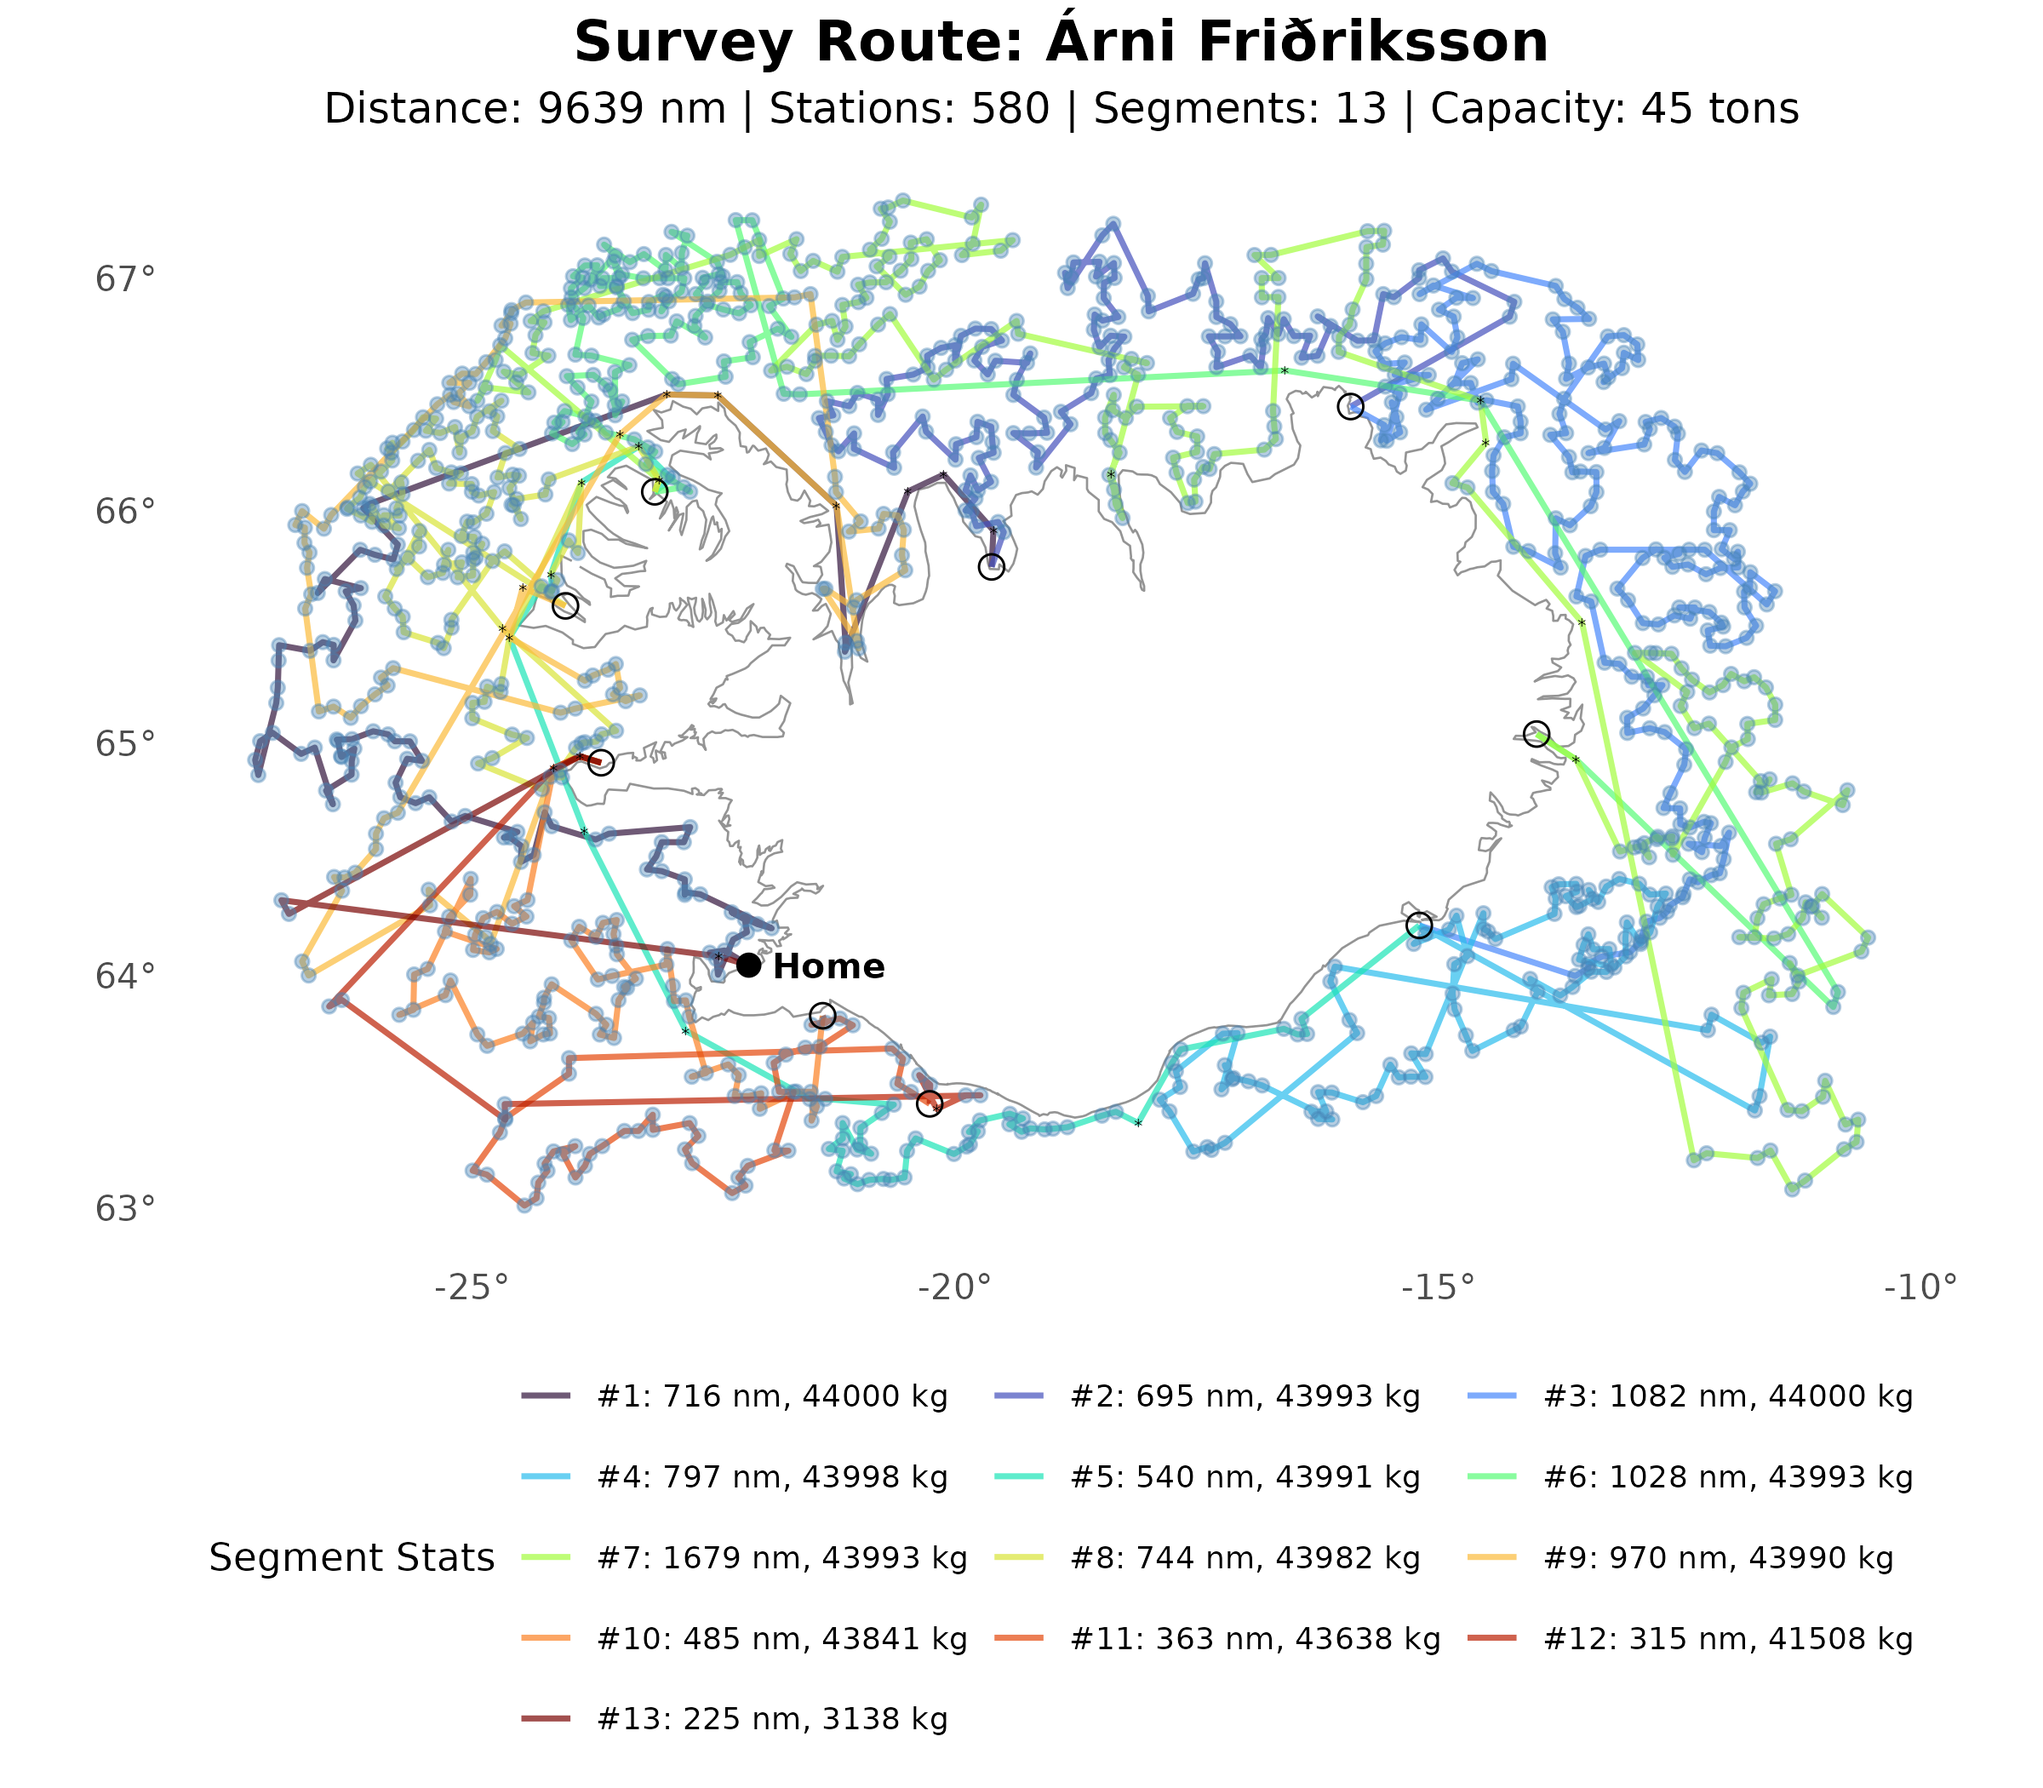
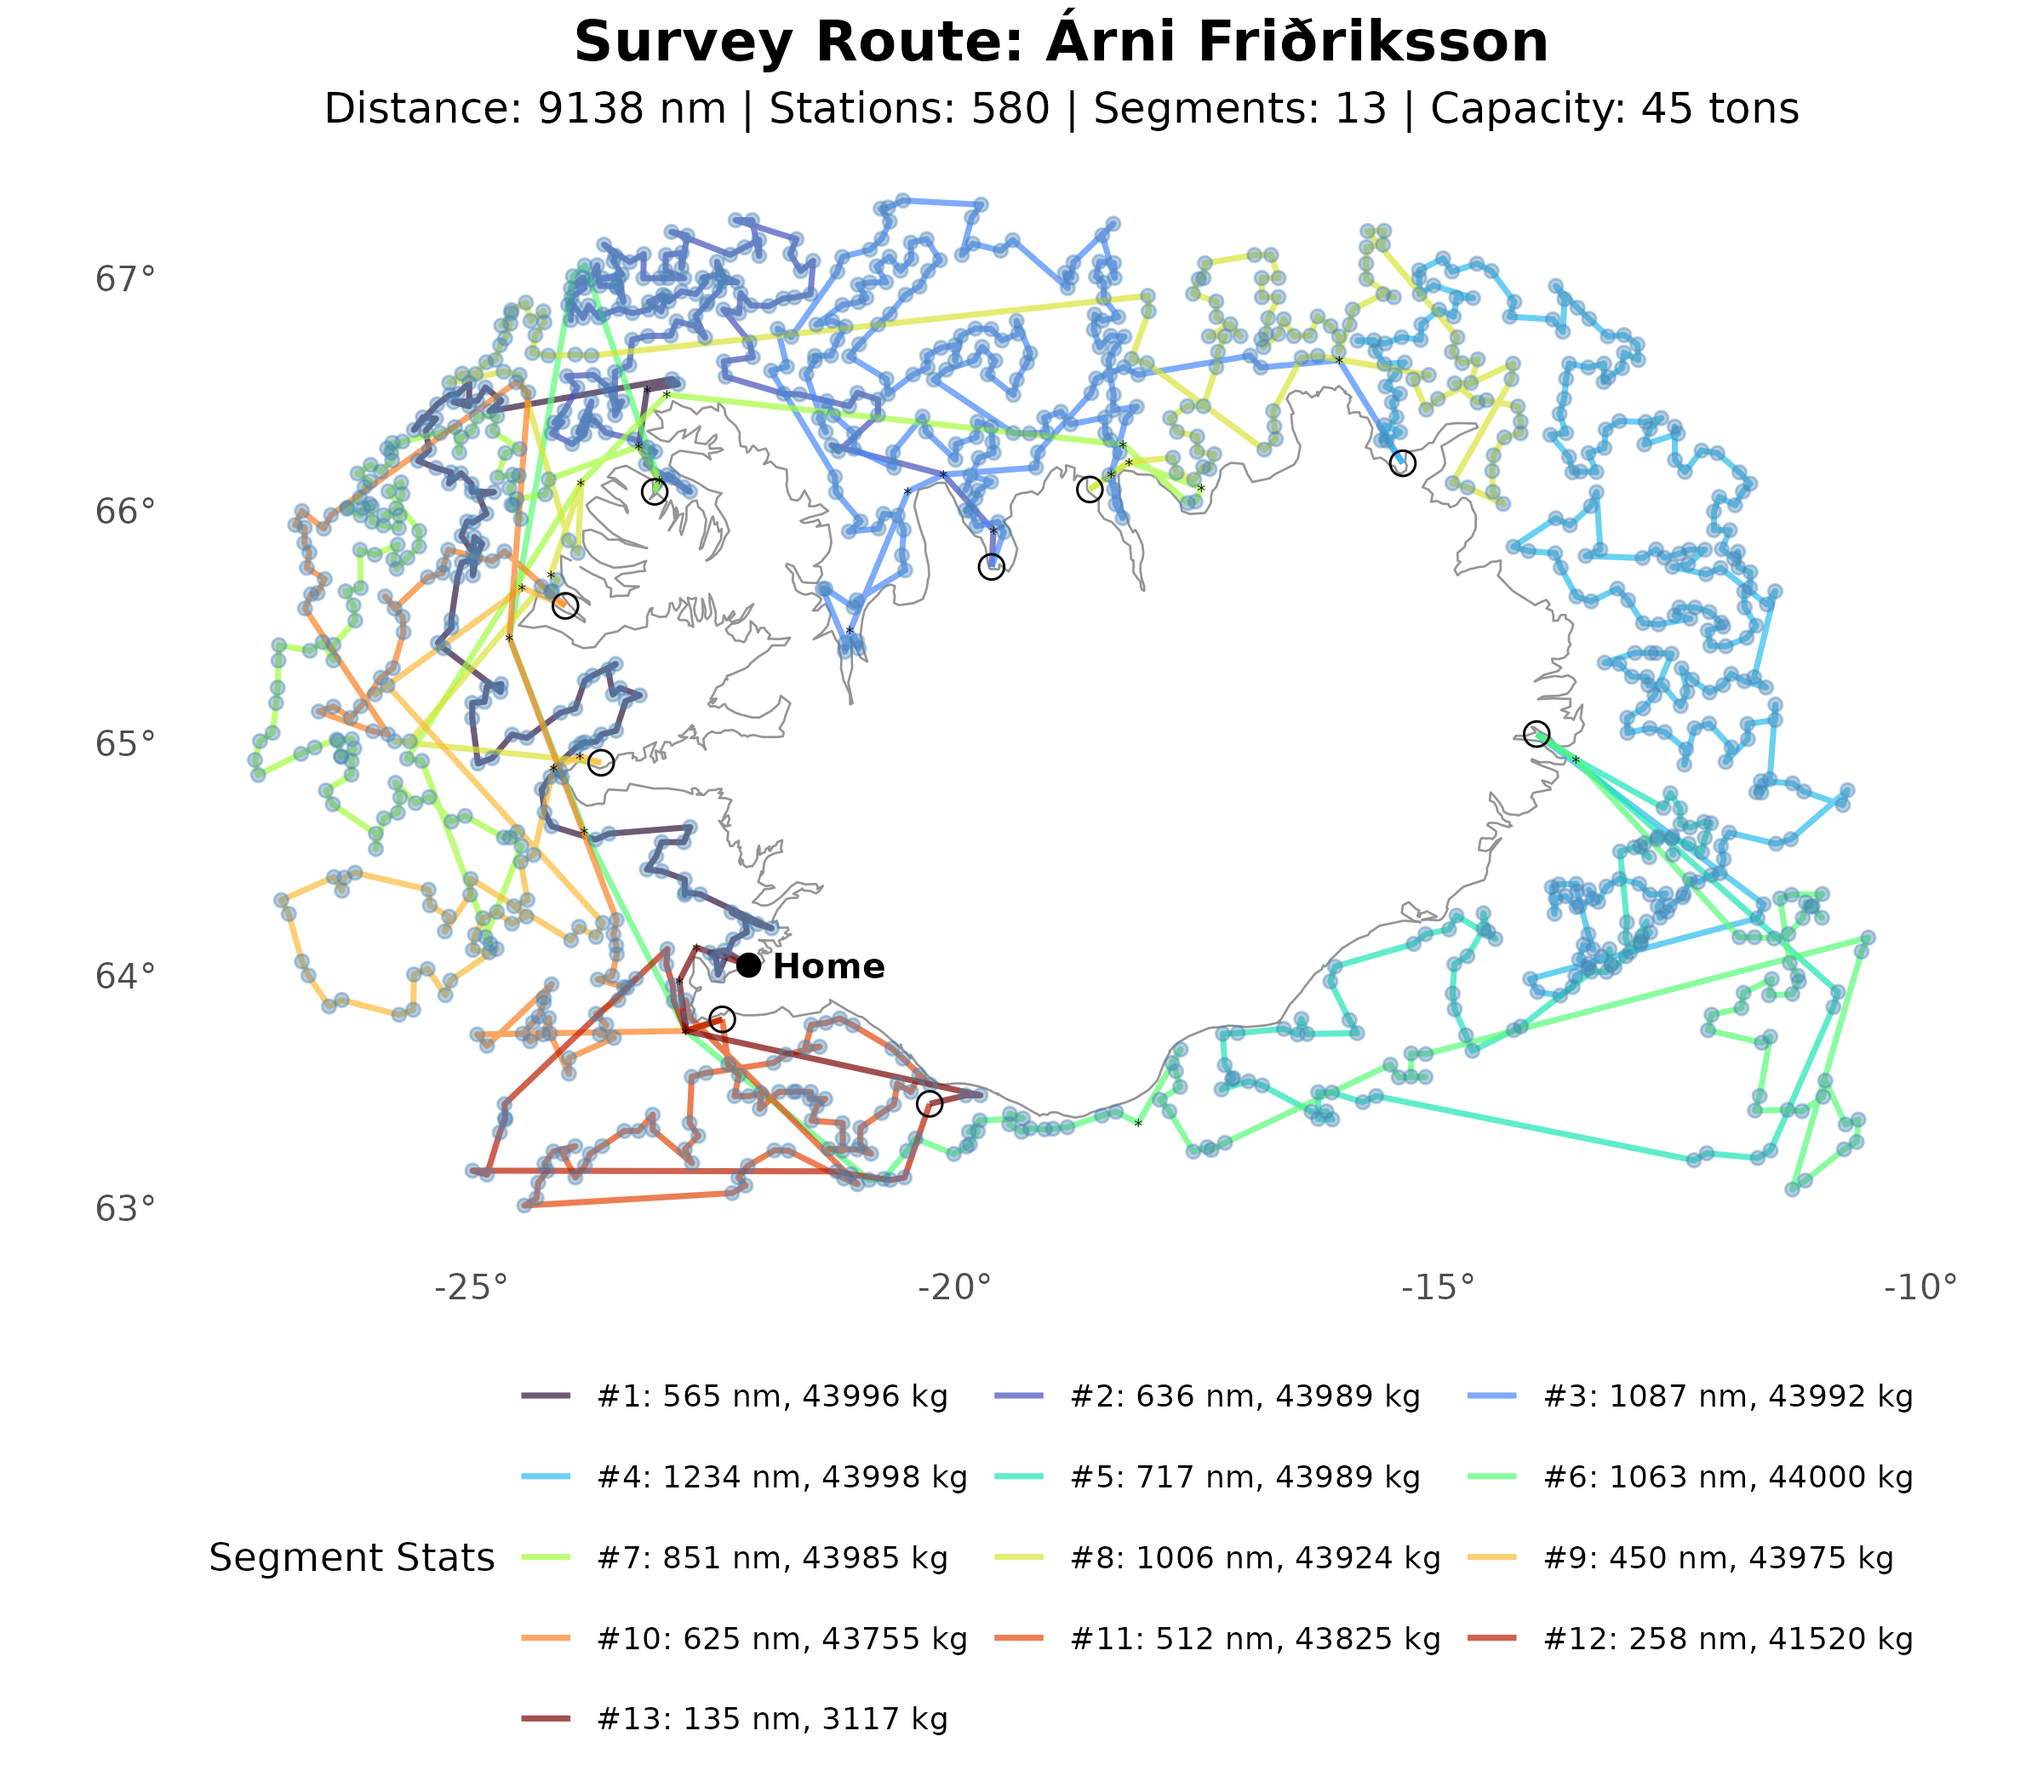
Refactor init: direction-aware nearest port insertion and improved station orientation selection

diff --git a/src-refactor/init/nearest_neighbor.c b/src-refactor/init/nearest_neighbor.c
@@ -47,7 +47,8 @@ int nn_solve(const nn_instance_t *inst, nn_solution_t *sol,
         return -1;
     }
 
-    int current_node_idx = -1;  // -1 = boat (use boat_start_loc_id)
+    int current_anchor_idx = -1;  // -1 = boat; otherwise station/port object index for legacy NN ordering
+    int current_loc_id = boat_start_loc_id;  // actual current emitted location for route construction
     int current_load = 0;
     double current_segment_dist = 0.0;
     int segment_start_idx = 0;
@@ -61,67 +62,51 @@ int nn_solve(const nn_instance_t *inst, nn_solution_t *sol,
         int best_station_idx = -1;
         int best_entry = -1, best_exit = -1, best_dir = 0;
 
-        int from_loc_id = (current_node_idx < 0)
-            ? boat_start_loc_id
-            : inst->nodes[current_node_idx].end_loc_id;
-
         // Phase 1: Find nearest unvisited station that fits capacity
         for (int i = 0; i < inst->num_stations; i++) {
+            double cand_dist;
             if (visited[i]) continue;
             int station_amount = inst->nodes[i].amount;
             if (current_load > 0 && current_load + station_amount > boat_capacity) continue;
 
-            int cand_entry = -1, cand_exit = -1, cand_dir = 0;
-            double cand_dist = 0.0;
-            if (!choose_station_orientation_with_dir(inst, from_loc_id, i,
-                                                     &cand_entry, &cand_exit,
-                                                     &cand_dist, &cand_dir)) {
-                continue;
-            }
+            cand_dist = (current_anchor_idx < 0)
+                ? min_dist_from_loc_to_node(inst, boat_start_loc_id, i)
+                : min_dist_node_pair(inst, current_anchor_idx, i);
             if (cand_dist > 0.0 && cand_dist < best_dist) {
                 best_dist = cand_dist;
                 best_station_idx = i;
-                best_entry = cand_entry;
-                best_exit = cand_exit;
-                best_dir = cand_dir;
             }
         }
 
         // Phase 2: If no candidate found and load is empty, retry without capacity filter
         if (best_station_idx < 0 && current_load <= 0) {
             for (int i = 0; i < inst->num_stations; i++) {
+                double cand_dist;
                 if (visited[i]) continue;
-                int cand_entry = -1, cand_exit = -1, cand_dir = 0;
-                double cand_dist = 0.0;
-                if (!choose_station_orientation_with_dir(inst, from_loc_id, i,
-                                                         &cand_entry, &cand_exit,
-                                                         &cand_dist, &cand_dir)) {
-                    continue;
-                }
+                cand_dist = (current_anchor_idx < 0)
+                    ? min_dist_from_loc_to_node(inst, boat_start_loc_id, i)
+                    : min_dist_node_pair(inst, current_anchor_idx, i);
                 if (cand_dist > 0.0 && cand_dist < best_dist) {
                     best_dist = cand_dist;
                     best_station_idx = i;
-                    best_entry = cand_entry;
-                    best_exit = cand_exit;
-                    best_dir = cand_dir;
                 }
             }
         }
 
         // Phase 3: If still no station, insert nearest port and reset
         if (best_station_idx < 0) {
-            if (current_node_idx < 0) {
+            if (current_anchor_idx < 0) {
                 printf("[NN] No feasible station from boat start\n");
                 break;
             }
-            int nearest_port = find_nearest_port(inst, inst->nodes[current_node_idx].end_loc_id);
+            int nearest_port = find_nearest_port_from_node_pair(inst, current_anchor_idx);
             if (nearest_port < 0) {
                 printf("[NN] No port available (load=%d)\n", current_load);
                 break;
             }
             int new_loc, new_seg_start;
             if (!insert_port_segment(inst, nearest_port,
-                    inst->nodes[current_node_idx].end_loc_id,
+                    current_loc_id,
                     &tour_nodes, &tour_cap, &tour_len,
                     &segment_starts, &seg_starts_cap,
                     &segment_ends,   &seg_ends_cap,
@@ -135,16 +120,26 @@ int nn_solve(const nn_instance_t *inst, nn_solution_t *sol,
                 free(visit_station_segment); free(visit_station_direction);
                 return -1;
             }
-            current_node_idx = nearest_port;
+            current_anchor_idx = nearest_port;
+            current_loc_id = new_loc;
             current_load = 0;
             segment_start_idx = new_seg_start;
             continue;
         }
 
-        // Phase 4: Add selected station to tour using orientation selected above.
+        // Phase 4: Emit selected station using the best concrete orientation from the actual current location.
         int station_amount = inst->nodes[best_station_idx].amount;
-        int stat_entry = best_entry;
-        int stat_exit = best_exit;
+        int stat_entry = -1, stat_exit = -1, stat_dir = 0;
+        double stat_added_dist = 0.0;
+
+        if (!choose_station_orientation_with_dir(inst, current_loc_id, best_station_idx,
+                                                 &stat_entry, &stat_exit,
+                                                 &stat_added_dist, &stat_dir)) {
+            free(visited); free(tour_nodes); free(segment_starts); free(segment_ends);
+            free(segment_catches); free(segment_dists); free(visit_station_ids);
+            free(visit_station_segment); free(visit_station_direction);
+            return -1;
+        }
 
         if (!grow_int_array(&tour_nodes, &tour_cap, tour_len + ((stat_exit != stat_entry) ? 2 : 1)) ||
             !grow_int_array(&visit_station_ids, &visit_ids_cap, visit_station_count + 1) ||
@@ -156,31 +151,29 @@ int nn_solve(const nn_instance_t *inst, nn_solution_t *sol,
             return -1;
         }
 
-        if (best_dist > 0.0) current_segment_dist += best_dist;
+        if (stat_added_dist > 0.0) current_segment_dist += stat_added_dist;
         tour_nodes[tour_len++] = stat_entry;
         if (stat_exit != stat_entry) {
             tour_nodes[tour_len++] = stat_exit;
         }
 
-        // best_dir currently tracked for deterministic orientation bookkeeping (+1/-1).
-        (void)best_dir;
-
         current_load += station_amount;
         visited[best_station_idx] = 1;
         visit_station_ids[visit_station_count] = inst->nodes[best_station_idx].table_id;
         visit_station_segment[visit_station_count] = segment_count;
-        visit_station_direction[visit_station_count] = best_dir;
+        visit_station_direction[visit_station_count] = stat_dir;
         visit_station_count++;
-        current_node_idx = best_station_idx;
+        current_anchor_idx = best_station_idx;
+        current_loc_id = stat_exit;
         remaining_stations--;
 
         // Phase 5: After adding station, if load at capacity and more remain, insert port
         if (current_load >= boat_capacity && remaining_stations > 0) {
-            int nearest_port = find_nearest_port(inst, inst->nodes[current_node_idx].end_loc_id);
+            int nearest_port = find_nearest_port_from_node_pair(inst, current_anchor_idx);
             if (nearest_port >= 0) {
                 int new_loc, new_seg_start;
                 if (!insert_port_segment(inst, nearest_port,
-                        inst->nodes[current_node_idx].end_loc_id,
+                        current_loc_id,
                         &tour_nodes, &tour_cap, &tour_len,
                         &segment_starts, &seg_starts_cap,
                         &segment_ends,   &seg_ends_cap,
@@ -194,7 +187,8 @@ int nn_solve(const nn_instance_t *inst, nn_solution_t *sol,
                     free(visit_station_segment); free(visit_station_direction);
                     return -1;
                 }
-                current_node_idx = nearest_port;
+                current_anchor_idx = nearest_port;
+                current_loc_id = new_loc;
                 current_load = 0;
                 segment_start_idx = new_seg_start;
             }
@@ -220,12 +214,8 @@ int nn_solve(const nn_instance_t *inst, nn_solution_t *sol,
     // Calculate total distance including return to boat end
     double total_dist = 0.0;
     for (int i = 0; i < segment_count; i++) total_dist += segment_dists[i];
-    int last_node_idx = (current_node_idx >= 0) ? current_node_idx : -1;
-    if (last_node_idx >= 0) {
-        double d_return = get_distance(inst, inst->nodes[last_node_idx].end_loc_id, boat_end_loc_id);
-        if (d_return > 0.0) total_dist += d_return;
-    } else {
-        double d_return = get_distance(inst, boat_start_loc_id, boat_end_loc_id);
+    {
+        double d_return = get_distance(inst, current_loc_id, boat_end_loc_id);
         if (d_return > 0.0) total_dist += d_return;
     }
 

diff --git a/src-refactor/init/init_utils.h b/src-refactor/init/init_utils.h
@@ -73,6 +73,21 @@ static inline double min_dist_node_pair(const nn_instance_t *inst, int a_idx, in
     return best;
 }
 
+static inline int find_nearest_port_from_node_pair(const nn_instance_t *inst, int from_node_idx)
+{
+    double min_dist = 1e100;
+    int nearest = -1;
+    if (!inst || from_node_idx < 0 || from_node_idx >= inst->num_stations + inst->num_ports) return -1;
+    for (int i = inst->num_stations; i < inst->num_stations + inst->num_ports; i++) {
+        double d = min_dist_node_pair(inst, from_node_idx, i);
+        if (d > 0.0 && d < min_dist) {
+            min_dist = d;
+            nearest = i;
+        }
+    }
+    return nearest;
+}
+
 /* ── segmentation helpers ────────────────────────────────────── */
 
 /* Insert a port into the tour, close the current segment, and reset state.

diff --git a/sol/nn/README.md b/sol/nn/README.md
@@ -34,17 +34,17 @@ make -C src-refactor init_nn
 
 |   Segment |   Length | Stations |      Catch | Distance (nm) |
 |----------:|---------:|---------:|-----------:|--------------:|
-|         1 |       81 |       40 |      44000 |        716.31 |
-|         2 |      125 |       62 |      43993 |        694.90 |
-|         3 |      187 |       93 |      44000 |       1082.18 |
-|         4 |       93 |       46 |      43998 |        797.03 |
-|         5 |       49 |       24 |      43991 |        539.85 |
-|         6 |      115 |       57 |      43993 |       1027.56 |
-|         7 |      203 |      101 |      43993 |       1679.03 |
-|         8 |      115 |       57 |      43982 |        744.30 |
-|         9 |       77 |       38 |      43990 |        969.80 |
-|        10 |       69 |       34 |      43841 |        485.41 |
-|        11 |       47 |       23 |      43638 |        363.28 |
-|        12 |        9 |        4 |      41508 |        314.75 |
-|        13 |        2 |        1 |       3138 |        224.95 |
-| **Total** | **1172** |  **580** | **528065** |   **9639.34** |
+|         1 |       97 |       48 |      43996 |        564.88 |
+|         2 |      123 |       61 |      43989 |        635.55 |
+|         3 |      165 |       82 |      43992 |       1086.93 |
+|         4 |      219 |      109 |      43998 |       1233.69 |
+|         5 |       81 |       40 |      43989 |        716.85 |
+|         6 |       77 |       38 |      44000 |       1062.78 |
+|         7 |      103 |       51 |      43985 |        851.27 |
+|         8 |      117 |       58 |      43924 |       1006.25 |
+|         9 |       41 |       20 |      43975 |        449.86 |
+|        10 |       61 |       30 |      43755 |        624.76 |
+|        11 |       71 |       35 |      43825 |        512.38 |
+|        12 |       15 |        7 |      41520 |        258.02 |
+|        13 |        2 |        1 |       3117 |        134.92 |
+| **Total** | **1172** |  **580** | **528065** |   **9138.14** |
